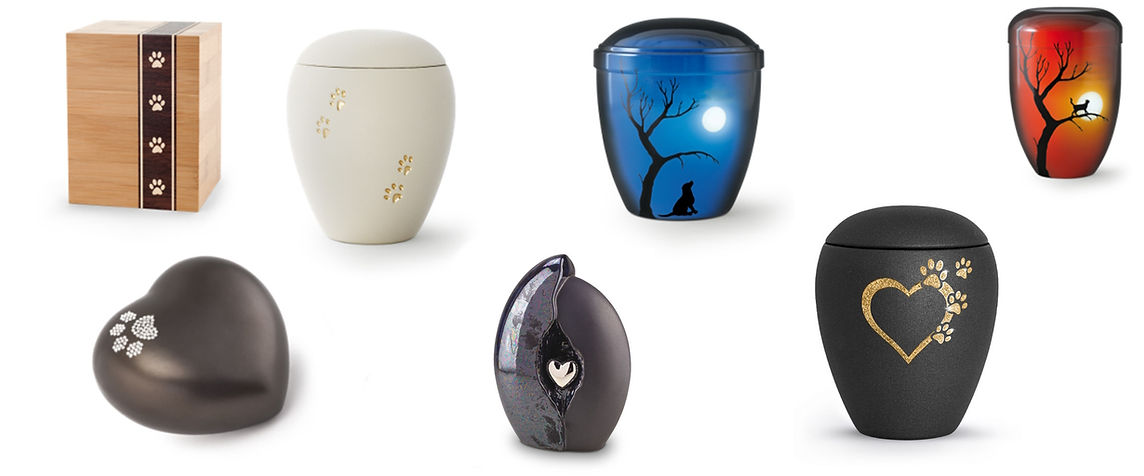
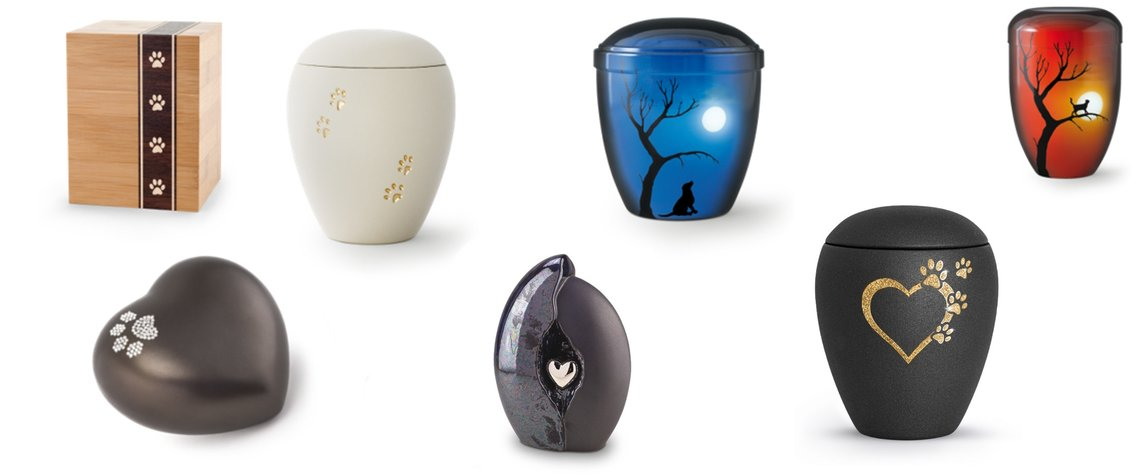
Echte Wix-Originale eingebunden, Verkleinerung mit richtiger Rechnung
Die nachgeladenen Originale sind die unbeschnittenen Aufnahmen, teils 6,8 MB.
Sie werden jetzt auf die Groesse gebracht, die tatsaechlich gebraucht wird —
diesmal mit der Rechnung fuer object-fit: cover, also so, dass die Datei in
BEIDEN Richtungen reicht. Der frueherer Versuch hatte mit "ins Format
einpassen" gerechnet und die Bilder dadurch unscharf gemacht.

Die Anzeigegroessen werden nicht mehr geschaetzt, sondern aus beiden Spiegeln
gelesen: aus data-image-info fuer Hintergrundbilder und aus den Sollwerten der
Komponente fuer einfache Bildelemente. Die width/height-Angaben am img-Tag
sind dafuer unbrauchbar — sie tragen die natuerliche Bildgroesse, auf der
Pferdeseite etwa 1931x1048 fuer einen Kasten, der genauso gross ist, an
anderer Stelle aber nicht.

Beruecksichtigt ist auch, dass die Mobilfassung mehr Bildpunkte braucht als
die Desktop-Fassung: das Telefon skaliert die 320px-Flaeche erst auf die
Bildschirmbreite hoch und rendert sie dann mit seiner Pixeldichte.

Ergebnis: 10 von 12 Bildern haben jetzt genau die noetige Aufloesung. Die
beiden anderen (Pferdekremierung, Hochformat auf der Startseite) sind durch
die Vorlage begrenzt — mehr Bildpunkte hat Wix selbst nicht, die
Originalseite liefert dieselbe Aufloesung aus.

Dabei 21,9 MB gespart; alle Bilder zusammen wiegen jetzt 2,4 MB.

Claude-Session: https://claude.ai/code/session_01T6WzrfDuDhmyapLdpJuFC2

diff --git a/tools/build-images.py b/tools/build-images.py
@@ -30,25 +30,22 @@ import re
 import shutil
 import sys
 
-# Anzeigegroesse je Bild im Nachbau. Danach richtet sich, wie gross die Datei
-# sinnvollerweise sein muss: die doppelte Anzeigegroesse reicht auch auf
-# hochaufloesenden Bildschirmen. Genau so hat es die Originalseite gemacht —
-# Wix hat fuer einen 510x340-Kasten ein 1020x680-Bild ausgeliefert.
+# Wie gross eine Bilddatei sein muss, haengt an zwei Dingen: an den Kaesten,
+# in denen sie angezeigt wird, und daran, wie das Geraet diese Kaesten auf
+# echte Bildpunkte abbildet.
 #
-# Beim Titelbild der Startseite steht die Breite des Bildschirms, nicht die
-# des Kastens: es laeuft ueber die volle Fensterbreite.
-ANZEIGE = {
-    "start-hero": (1920, 445),
-    "start-hochformat": (490, 709),
-    "start-ueber-uns": (490, 397),
-    "band-quer": (619, 362),
-    "leistungen-1": (245, 436),
-    "leistungen-2": (245, 436),
-    "kontakt-hunde": (510, 340),
-    "pferdekremierung": (720, 391),
-    "tierurnen": (572, 238),
-    "logo-hell": (312, 279),
-}
+#   Desktop: Faktor 2 deckt hochaufloesende Bildschirme ab.
+#   Mobil:   Die Mobilfassung rechnet mit einer 320px breiten Flaeche, die das
+#            Telefon erst auf die Bildschirmbreite hochskaliert (rund 430
+#            Punkte) und dann mit seiner Pixeldichte (bis 3) rendert. Ein
+#            320px breiter Kasten braucht damit rund 1290 echte Bildpunkte.
+FAKTOR = {"desktop": 2.0, "mobil": 430 / 320 * 3}
+
+# Entscheidend: die Bilder werden mit object-fit: cover angezeigt. Das FUELLT
+# den Kasten AUS und schneidet den Ueberstand ab. Eine Datei ist also nur dann
+# gross genug, wenn sie in BEIDEN Richtungen reicht. Wer hier mit "ins Format
+# einpassen" rechnet, macht die Bilder unscharf — genau das ist schon einmal
+# passiert.
 
 ROOT = os.path.abspath(os.path.join(os.path.dirname(__file__), ".."))
 MEDIA = os.path.join(ROOT, "miror-alt", "static.wixstatic.com", "media")
@@ -109,7 +106,120 @@ MAP = {
 }
 
 
-def verkleinern(pfad, name):
+def anzeigegroessen():
+    """Welche Bildkaesten es gibt, je Wix-Medien-Kennung.
+
+    Wird aus beiden Spiegeln gelesen, nicht geschaetzt: Wix schreibt zu jedem
+    Bild ein data-image-info-Attribut mit der Zielgroesse, und die einfachen
+    Bildelemente tragen width/height direkt am img-Tag.
+    """
+    import glob
+    import html as _h
+    import json
+
+    raus = {}
+    for verzeichnis, fassung in ((os.path.join(ROOT, "miror-alt"), "desktop"),
+                                 (os.path.join(ROOT, "miror-mobile"), "mobil")):
+        muster = os.path.join(verzeichnis, "www.tierbestattung-memoria.de", "*.html")
+        for datei in glob.glob(muster):
+            text = open(datei, encoding="utf-8", errors="replace").read()
+
+            for m in re.finditer(r'data-image-info="([^"]+)"', text):
+                try:
+                    d = json.loads(_h.unescape(m.group(1)))
+                except ValueError:
+                    continue
+                uri = d.get("imageData", {}).get("uri")
+                tw, th = d.get("targetWidth"), d.get("targetHeight")
+                if uri and tw and th:
+                    raus.setdefault(uri, []).append((fassung, int(tw), int(th)))
+
+            # Einfache Bildelemente (wixui-image) tragen am img-Tag die
+            # NATUERLICHE Groesse, nicht die Anzeigegroesse — auf der
+            # Pferdeseite steht dort 1931x1048 fuer einen 720x391-Kasten.
+            # Die Anzeigegroesse steht im generierten CSS der Komponente,
+            # also dort nachschlagen.
+            seite = os.path.splitext(os.path.basename(datei))[0]
+            alt_mirror = os.environ.get("MIRROR")
+            os.environ["MIRROR"] = os.path.basename(verzeichnis)
+            try:
+                sollwerte = _spec_modul().build(seite)
+            except Exception:
+                sollwerte = {}
+            finally:
+                if alt_mirror is None:
+                    os.environ.pop("MIRROR", None)
+                else:
+                    os.environ["MIRROR"] = alt_mirror
+
+            for m in re.finditer(
+                    r'<div id="(comp-\w+)"[^>]*wixui-image.*?</div>', text, re.S):
+                comp = m.group(1)
+                kennung = re.search(r"([0-9a-f]{6}_[0-9a-f]{32}~mv2\.\w+)", m.group(0))
+                d = sollwerte.get(comp, {})
+                if kennung and d.get("w") and d.get("h"):
+                    raus.setdefault(kennung.group(1), []).append(
+                        (fassung, int(float(d["w"][:-2])), int(float(d["h"][:-2]))))
+    return raus
+
+
+def _spec_modul():
+    """tools/spec.py nachladen — es liest den Spiegel aus der Umgebung."""
+    import importlib.util
+    pfad = os.path.join(os.path.dirname(os.path.abspath(__file__)), "spec.py")
+    sp = importlib.util.spec_from_file_location("spec_fuer_bilder", pfad)
+    m = importlib.util.module_from_spec(sp)
+    sp.loader.exec_module(m)
+    return m
+
+
+_ANZEIGE = None
+
+
+def verkleinern(pfad, media_id):
+    """Bild auf die kleinste Groesse bringen, die ueberall noch scharf ist.
+
+    Gerechnet wird fuer object-fit: cover — die Datei muss in beiden
+    Richtungen reichen. Hochgerechnet wird nie: ist die Vorlage schon zu
+    klein, bleibt sie wie sie ist.
+    """
+    global _ANZEIGE
+    if _ANZEIGE is None:
+        _ANZEIGE = anzeigegroessen()
+
+    faelle = _ANZEIGE.get(media_id)
+    if not faelle:
+        return None
+    try:
+        from PIL import Image
+    except ImportError:
+        return "Pillow fehlt"
+
+    noetig_b = max(round(w * FAKTOR[f]) for f, w, h in faelle)
+    noetig_h = max(round(h * FAKTOR[f]) for f, w, h in faelle)
+
+    im = Image.open(pfad)
+    vorher = os.path.getsize(pfad)
+
+    # So weit verkleinern, dass beide Richtungen gerade noch reichen.
+    skala = max(noetig_b / im.width, noetig_h / im.height)
+    if skala >= 1:
+        return None                      # Vorlage ist schon knapp oder zu klein
+
+    ziel = (max(1, round(im.width * skala)), max(1, round(im.height * skala)))
+    kopie = im.resize(ziel, Image.LANCZOS)
+    if im.format == "PNG" or im.mode in ("RGBA", "P", "LA"):
+        kopie.save(pfad, "PNG", optimize=True)
+    else:
+        kopie.save(pfad, "JPEG", quality=85, optimize=True, progressive=True)
+
+    nachher = os.path.getsize(pfad)
+    if nachher >= vorher:
+        return None
+    return (vorher, nachher, ziel, (noetig_b, noetig_h))
+
+
+
     """Bilder werden bewusst NICHT verkleinert.
 
     Ein frueherer Versuch, hier Ladezeit zu sparen, hat die Bilder unscharf
@@ -248,14 +358,15 @@ def main():
     # Auf eine sinnvolle Groesse bringen
     verkleinert = []
     pillow_fehlt = False
+    NAME_ZU_ID = {n: mid for mid, (n, _) in MAP.items()}
     for i, (name, kind, size, purpose) in enumerate(manifest):
         stamm = os.path.splitext(name)[0]
-        r = verkleinern(os.path.join(DST, name), stamm)
+        r = verkleinern(os.path.join(DST, name), NAME_ZU_ID.get(stamm, ""))
         if r == "Pillow fehlt":
             pillow_fehlt = True
         elif r:
-            vorher, nachher, groesse = r
-            verkleinert.append((name, vorher, nachher, groesse))
+            vorher, nachher, groesse, noetig = r
+            verkleinert.append((name, vorher, nachher, groesse, noetig))
             manifest[i] = (name, kind, nachher, purpose)
 
     w = max(len(m[0]) for m in manifest)
@@ -266,11 +377,11 @@ def main():
 
     if verkleinert:
         print()
-        print("Auf die doppelte Anzeigegroesse gebracht:")
+        print("Auf die noetige Groesse gebracht:")
         gespart = 0
-        for name, vorher, nachher, groesse in verkleinert:
-            print(f"   {name:24} {vorher/1024:6.0f} KB -> {nachher/1024:5.0f} KB  "
-                  f"({groesse[0]}x{groesse[1]})")
+        for name, vorher, nachher, groesse, noetig in verkleinert:
+            print(f"   {name:24} {vorher/1024:7.0f} KB -> {nachher/1024:6.0f} KB  "
+                  f"{groesse[0]}x{groesse[1]}  (noetig {noetig[0]}x{noetig[1]})")
             gespart += vorher - nachher
         print(f"   {'zusammen gespart':24} {gespart/1024:6.0f} KB")
     if pillow_fehlt:
